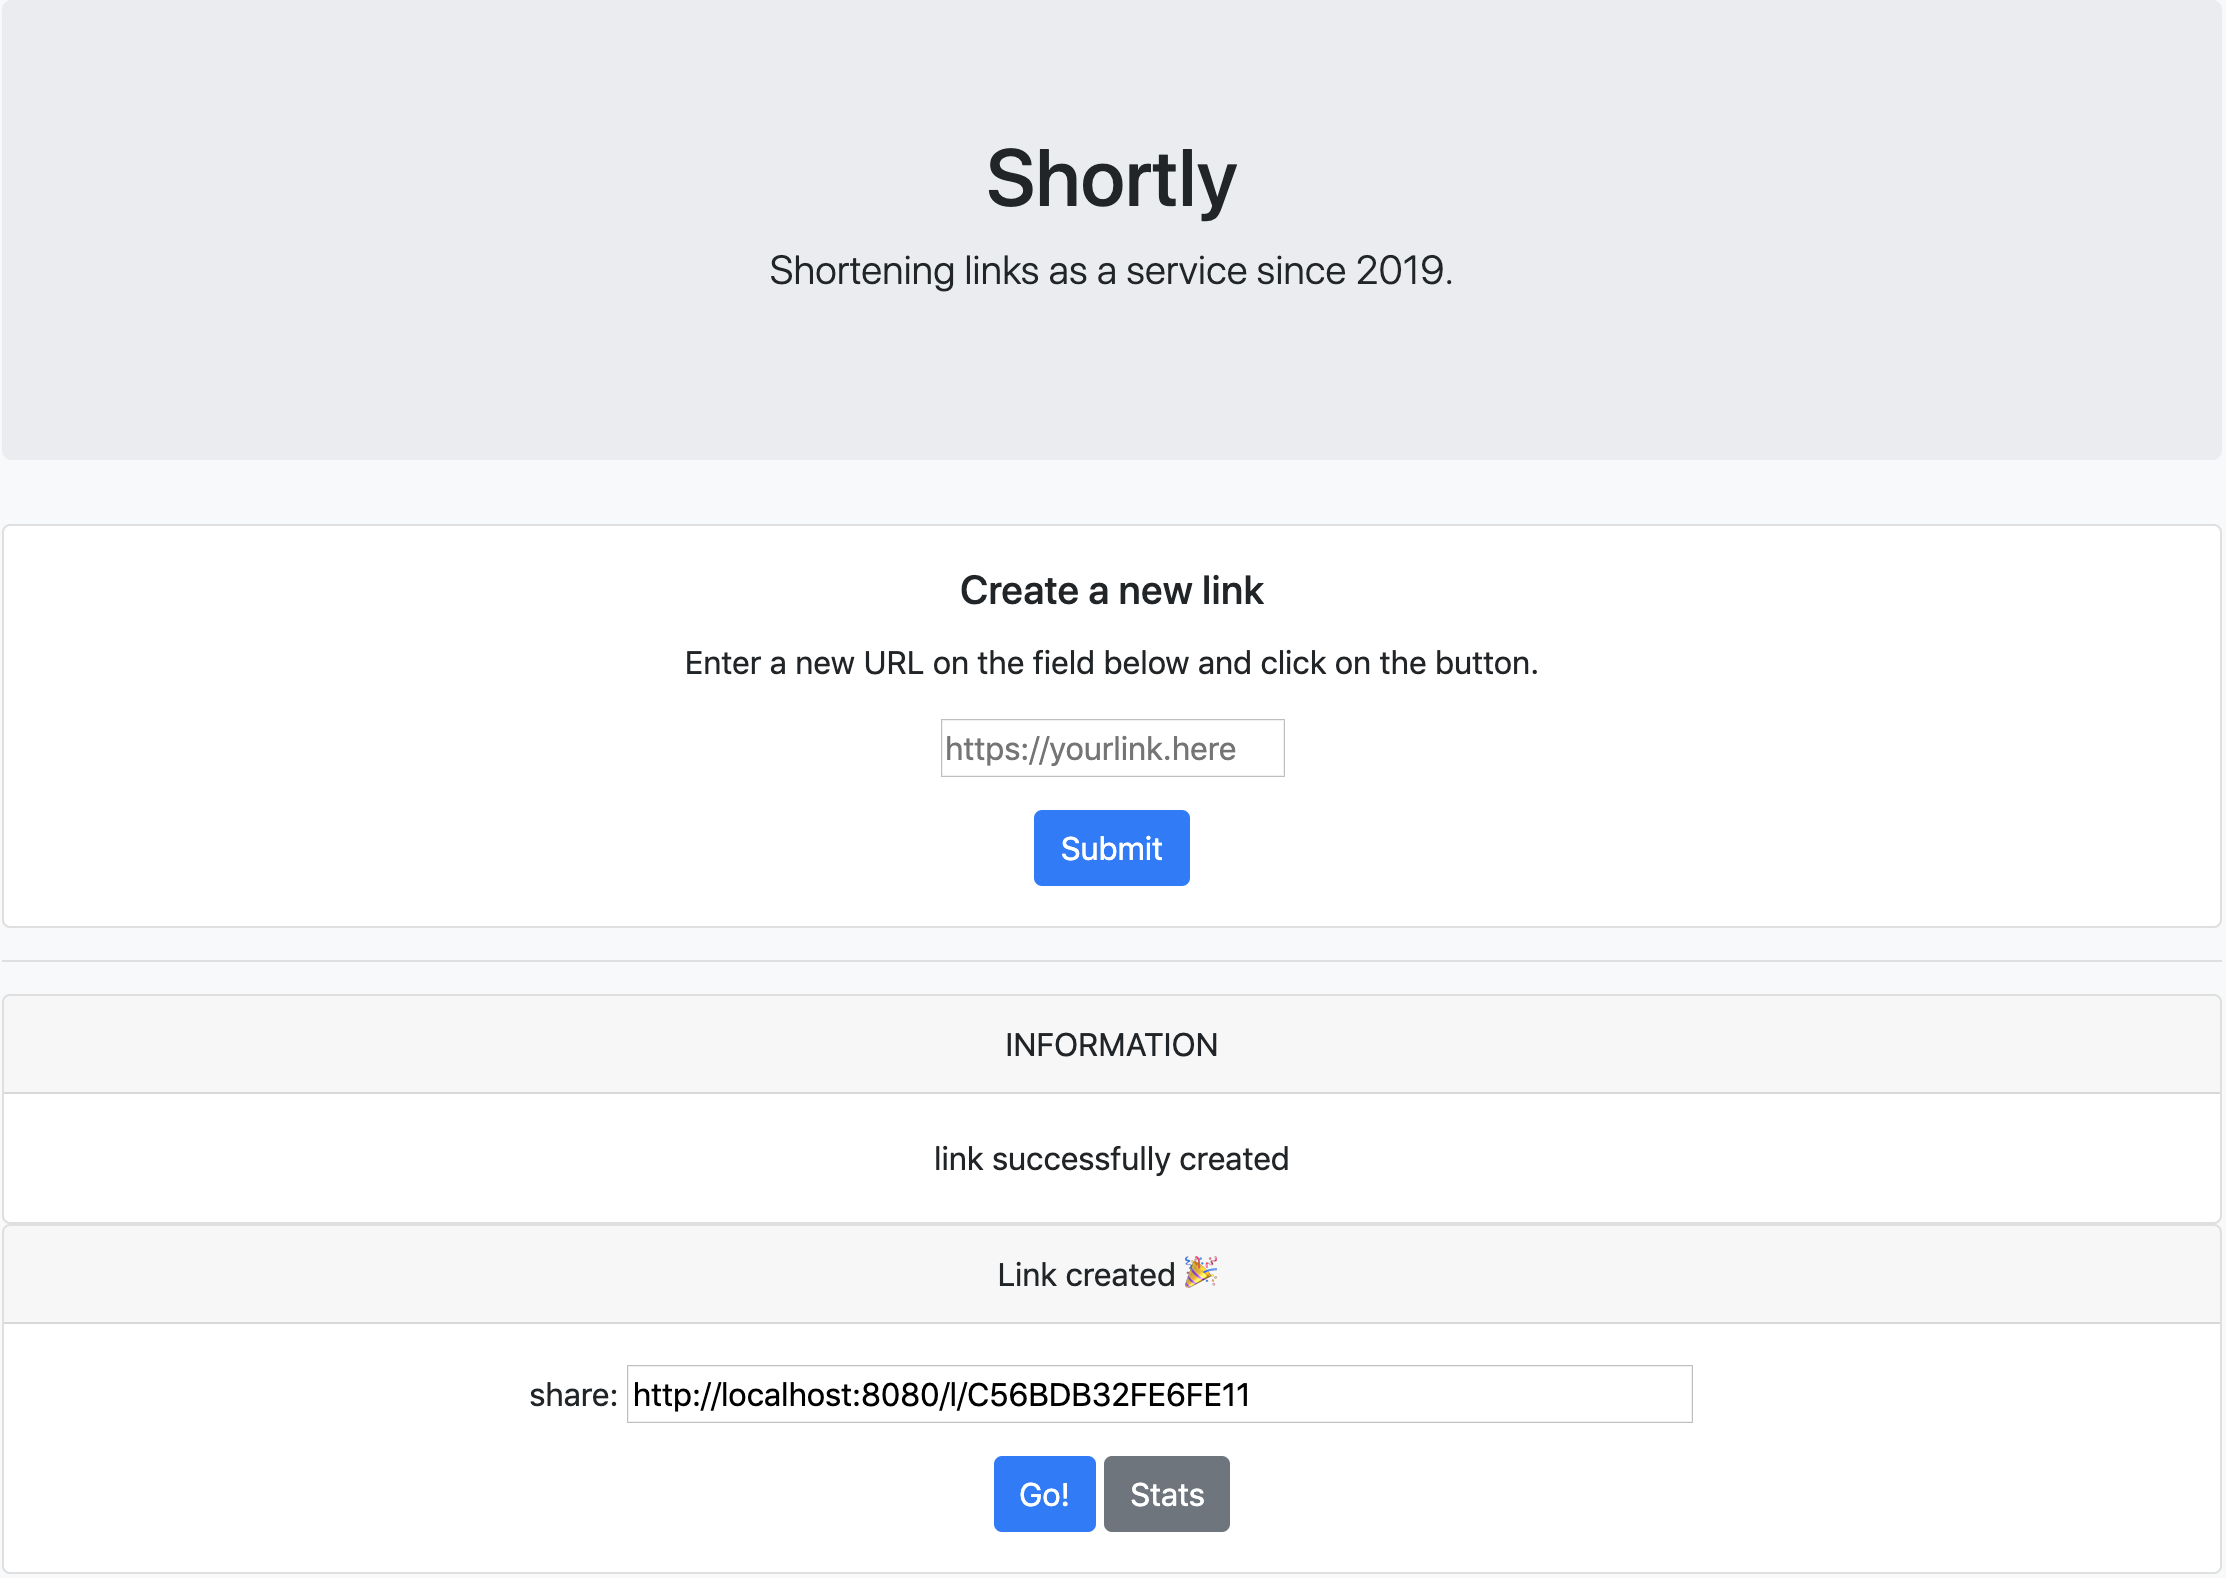
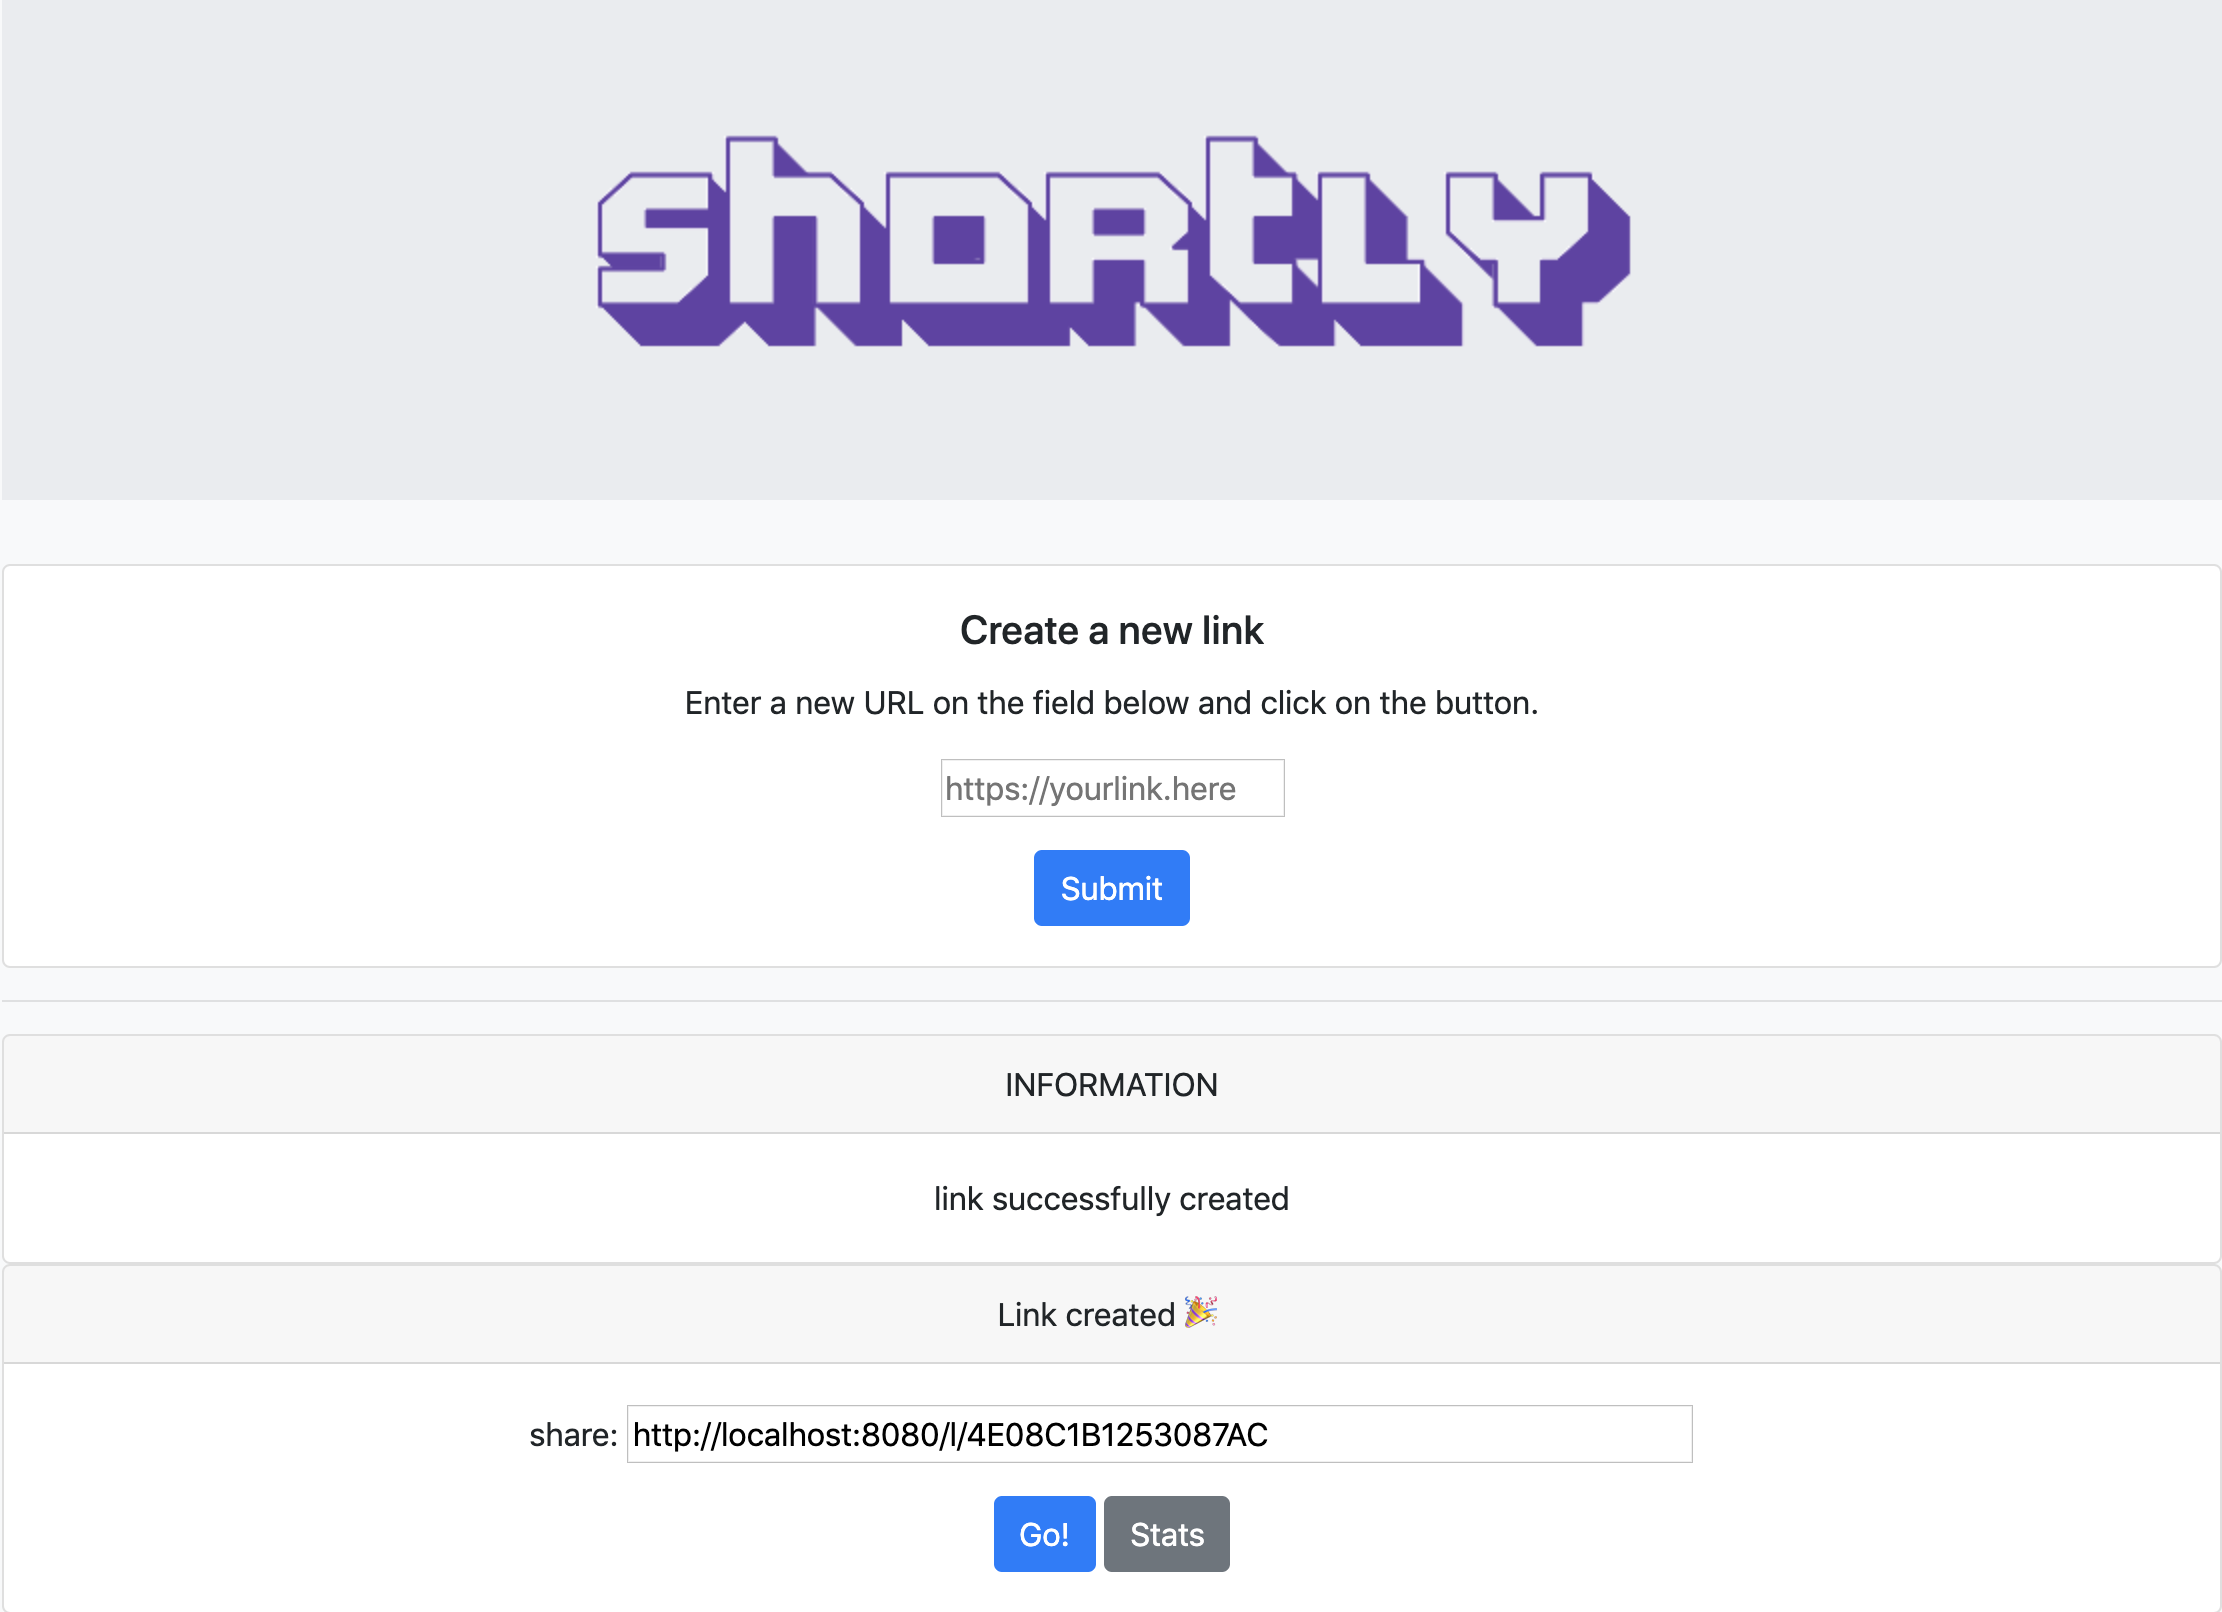
serve static content

diff --git a/public/home.html b/public/home.html
@@ -19,9 +19,8 @@
     <div class="container">
         <div class="py-5 text-center">
 
-            <div class="jumbotron">
-                <h1>Shortly</h1>
-                <p class="lead">Shortening links as a service since 2019.</p>
+            <div class="jumbotron jumbotron-fluid">
+                <h1><img src="public/images/shortly.png" class="img-fluid" alt="Shortly"></h1>
             </div>
 
             <div class="card text-center">

diff --git a/server/server.go b/server/server.go
@@ -17,6 +17,8 @@ type Server struct {
 	router    *mux.Router
 }
 
+const STATIC_DIR = "/public/"
+
 // New returns a new HTTP server.
 func NewSever(ss shortener.Service, logger log.Logger) *Server {
 	s := &Server{
@@ -27,6 +29,8 @@ func NewSever(ss shortener.Service, logger log.Logger) *Server {
 	r := mux.NewRouter()
 	r.Use(accessControl)
 	r.HandleFunc("/health", health)
+	r.PathPrefix(STATIC_DIR).
+		Handler(http.StripPrefix(STATIC_DIR, http.FileServer(http.Dir("."+STATIC_DIR))))
 	r.Handle("/metrics", promhttp.Handler()).Methods("GET")
 	h := shorteningHandler{
 		s:      ss,
@@ -59,4 +63,11 @@ func health(w http.ResponseWriter, r *http.Request) {
 // ServeHTTP dispaches registered handlers
 func (s *Server) ServeHTTP(w http.ResponseWriter, r *http.Request) {
 	s.router.ServeHTTP(w, r)
+}
+
+type Health struct {
+	Host    string `json:"host"`
+	Version string `json:"version"`
+	Commit  string `json:"commit"`
+	Built   string `json:"built"`
 }
